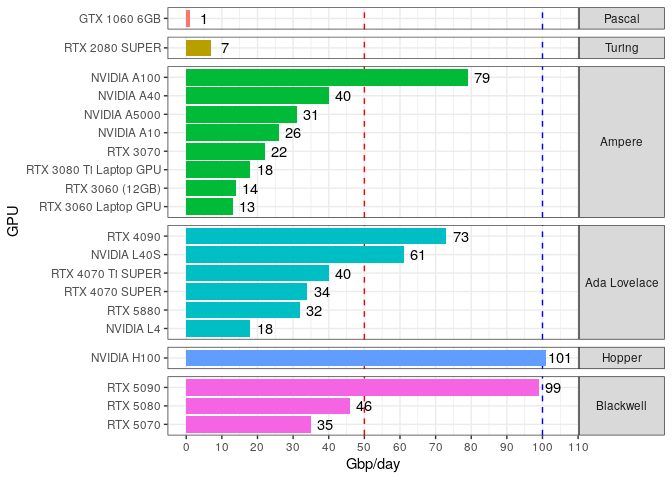
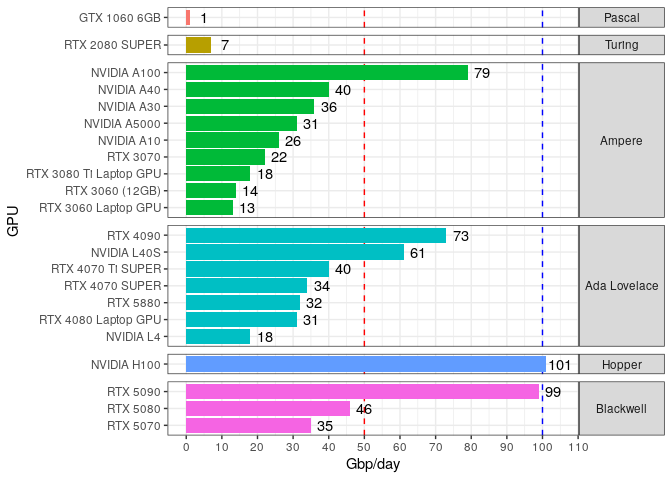
added a30 and 4080 laptop

diff --git a/README.md b/README.md
@@ -1,7 +1,7 @@
 README
 ================
 Rasmus Kirkegaard
-15 April, 2025
+16 April, 2025
 
 ## Aim
 
